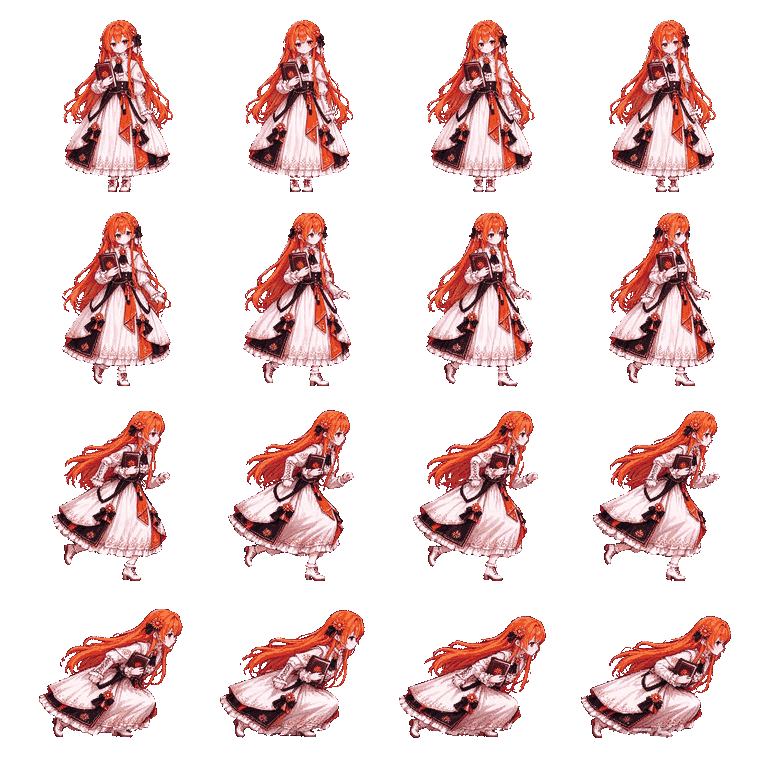
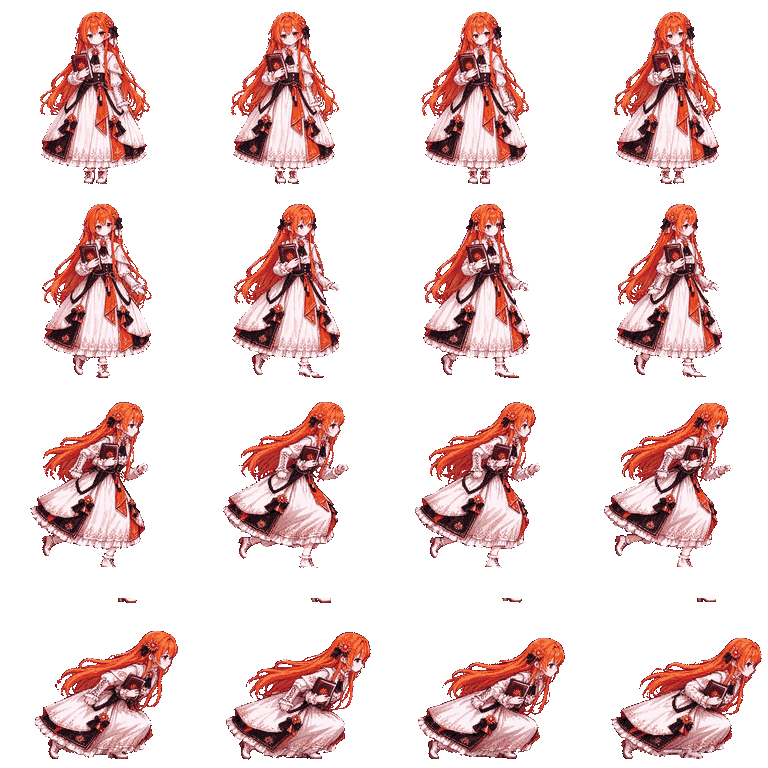
fix(weapons): fuse a duplicate pickup; re-grid the rebuilt sheets

diff --git a/src/game/characters/logic.ts b/src/game/characters/logic.ts
@@ -71,9 +71,11 @@ import {
     KEY_TWO,
     KEY_W,
     SFX_EVENT,
+    WEAPONS_REFILL_ONE_EVENT,
 } from '@/lib/constants';
 import { getCheats } from '@/lib/dev/cheats';
 import { EventBus } from '@/lib/events/bus';
+import { maxWeaponUpgradeLevel } from '@/lib/weapons/upgrades';
 import { appRect, toAppPoint } from '@/lib/mobile';
 import type { CharacterSpec } from '@/lib/characters';
 import type { Level } from '@/lib/levels/types';
@@ -271,6 +273,8 @@ export interface WeaponsLike {
     manualReload(): void;
     refillActiveAmmo(fraction: number): void;
     swapToWeapon(weaponId: string): boolean;
+    /** True when this weapon id already sits in the hotbar. */
+    hasWeapon(weaponId: string): boolean;
     getActiveSlotState(): StatusHudState;
     tryPickupWeapon(spec: import('@/lib/weapons').WeaponSpec): 'added' | 'capped';
     replaceSlot(slotIndex: number, spec: import('@/lib/weapons').WeaponSpec): void;
@@ -576,9 +580,21 @@ export class CharacterController {
     tryPickupWeaponById(
         weaponId: string,
         weaponsById: ReadonlyMap<string, import('@/lib/weapons').WeaponSpec>,
-    ): 'added' | 'capped' | 'unknown' {
+    ): 'added' | 'capped' | 'unknown' | 'merged' {
         const spec = weaponsById.get(weaponId);
         if (!spec) return 'unknown';
+
+        // Already carrying it: merge the two into one instead of taking a second slot.
+        // Gemini already owns an assault rifle, so the cat's gift used to leave her with
+        // two of them; the same happened to GPT at the dragon throne.
+        if (this.parts.weapons.hasWeapon(weaponId)) {
+            useGameStore.getState().mergeOwnedWeapon(weaponId, maxWeaponUpgradeLevel(spec));
+            // The store is a mirror - the guns in her hands are THIS object, so the
+            // refill has to reach the live slots too.
+            EventBus.emit(WEAPONS_REFILL_ONE_EVENT, { weaponId });
+            return 'merged';
+        }
+
         return this.parts.weapons.tryPickupWeapon(spec);
     }
 

diff --git a/src/lib/levels/cat-gift.ts b/src/lib/levels/cat-gift.ts
@@ -18,7 +18,7 @@ import type { WeaponSpec } from '@/lib/weapons';
 /** What the cabin cat hands over. */
 export const CAT_GIFT_WEAPON_ID = 'assault-rifle';
 
-export type PickupOutcome = 'added' | 'capped' | 'unknown';
+export type PickupOutcome = 'added' | 'capped' | 'unknown' | 'merged';
 
 export interface CatGiftDeps {
     /** Every weapon the current scene loaded. */
@@ -31,7 +31,7 @@ export interface CatGiftDeps {
     warn: (message: string, detail: unknown) => void;
 }
 
-export type CatGiftResult = 'granted' | 'capped' | 'unknown';
+export type CatGiftResult = 'granted' | 'merged' | 'capped' | 'unknown';
 
 /**
  * Hand the rifle over.
@@ -52,6 +52,8 @@ export function giveCatGift(deps: CatGiftDeps): CatGiftResult {
     deps.refresh();
 
     if (outcome === 'added') return 'granted';
+    // She already had one: the pair fused into a level-up, which is also a gift landing.
+    if (outcome === 'merged') return 'merged';
     if (outcome === 'capped') {
         deps.warn('hotbar full, the rifle did not fit', { giftId: CAT_GIFT_WEAPON_ID });
         return 'capped';

diff --git a/src/game/characters/character.ts b/src/game/characters/character.ts
@@ -77,6 +77,8 @@ export interface CharacterRuntime {
      *   - `'added'`   on success (the new weapon becomes active)
      *   - `'capped'`  when the hotbar is at `weaponMax` (caller should
      *                  surface a replace-HUD instead of consuming the drop)
+     *   - `'merged'`  when she already carries it: the two fuse into one (+1 level,
+     *                  full magazine) instead of taking a second slot
      *   - `'unknown'` when no `WeaponSpec` with that id was registered
      *
      * `weaponsById` is the scene-level lookup shared with DropController;
@@ -85,7 +87,7 @@ export interface CharacterRuntime {
     tryPickupWeaponById(
         weaponId: string,
         weaponsById: ReadonlyMap<string, import('@/lib/weapons').WeaponSpec>,
-    ): 'added' | 'capped' | 'unknown';
+    ): 'added' | 'capped' | 'unknown' | 'merged';
     /** Replace the weapon in `slotIndex` with `weaponId`'s spec. No-op
      *  when the index is out of range or the id isn't registered. */
     replaceWeaponSlot(

diff --git a/src/game/scenes/scene.ts b/src/game/scenes/scene.ts
@@ -1021,11 +1021,14 @@ export class LoadScene extends Phaser.Scene {
 
         const gift = this.assets.weaponsById.get(CAT_SHOP_GIFT_WEAPON_ID);
         const giftName = gift ? pickText(gift.name, gift.nameZh) : '突击步枪';
+        const say = (line: string) => useGameStore.getState().showNotice(line);
         // Whatever happened, say it. A silent gift is indistinguishable from a broken one.
         if (result === 'granted') {
-            useGameStore.getState().showNotice(`猫塞给你一把${giftName}`);
+            say(`猫猫塞给你一把${giftName}`);
+        } else if (result === 'merged') {
+            say(`猫猫又塞给你一把${giftName}，两把合成一把（+1 级）`);
         } else if (result === 'capped') {
-            useGameStore.getState().showNotice(`猫叼来了${giftName}，可你手上拿不下了`);
+            say(`猫猫叼来了${giftName}，可你手上拿不下了`);
         }
     }
 

diff --git a/src/components/hud/notice-toast.tsx b/src/components/hud/notice-toast.tsx
@@ -23,7 +23,7 @@ export const NoticeView: React.FC<{ text: string | null }> = ({ text }) => {
             className="pointer-events-none absolute inset-x-0 top-20 z-30 flex justify-center"
             data-testid="notice-toast"
         >
-            <div className="border-2 border-amber-500/80 bg-stone-950/90 px-3 py-1.5 font-['Silkscreen',monospace] text-[12px] leading-none tracking-wide text-amber-200 shadow-[0_4px_16px_rgba(0,0,0,0.55)]">
+            <div className="border-2 border-amber-500/80 bg-stone-950/90 px-3 py-1.5 font-mono text-[13px] leading-relaxed text-amber-200 shadow-[0_4px_16px_rgba(0,0,0,0.55)]">
                 {text}
             </div>
         </div>

diff --git a/tests/lib/levels/cat-gift.test.ts b/tests/lib/levels/cat-gift.test.ts
@@ -61,3 +61,13 @@ describe('giveCatGift', () => {
         expect(d.refresh).toHaveBeenCalledTimes(1);
     });
 });
+
+describe('the gift she already carries', () => {
+    it('reports a merge instead of a duplicate rifle', () => {
+        // Gemini's hotbar already holds the assault rifle, so the cat's gift used to leave
+        // her carrying two of them. Adding must fuse them (+1 level) instead.
+        const d = deps({ addWeapon: vi.fn(() => 'merged' as const) });
+        expect(giveCatGift(d)).toBe('merged');
+        expect(d.warn).not.toHaveBeenCalled();
+    });
+});
